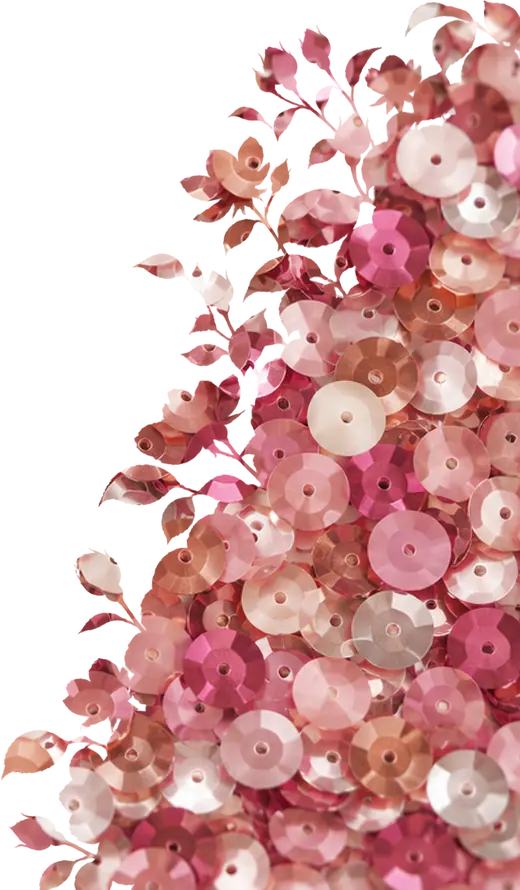
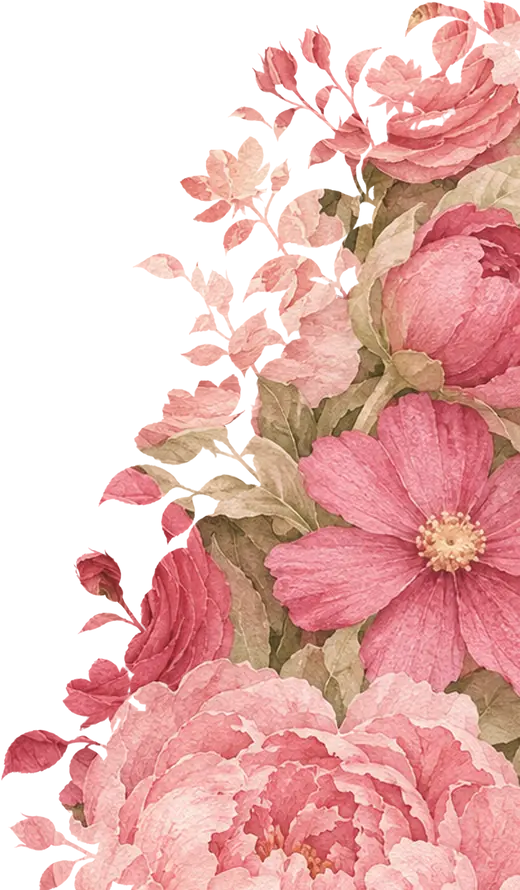
Quitar el telón de lentejuelas: a tamaño real se ve mal
En mi prueba a 375 px parecía bien. En la ventana de Diego, a 1470, las
lentejuelas se escalan y se vuelven discos grandes y duros, en foco, que
aplastan la fotografía. No es el recorte: es la lámina, que está tomada
demasiado de cerca.

Vuelven las flores hasta que haya un fondo que aguante el tamaño. La
referencia que quiere Soffia no usa ningún muro de lentejuelas: usa fondo casi
blanco, bolas de espejo plateadas recortadas por el canto y estrellas planas
de purpurina repartidas.

diff --git a/index.html b/index.html
@@ -11,10 +11,10 @@
 <link rel="preconnect" href="https://fonts.googleapis.com">
 <link rel="preconnect" href="https://fonts.gstatic.com" crossorigin>
 <link rel="stylesheet" href="https://fonts.googleapis.com/css2?family=Cormorant+Garamond:ital,wght@0,300;0,400;0,500;0,600;1,300;1,400&family=Jost:wght@300;400;500&family=Great+Vibes&display=swap">
-<!-- El estilo se decide antes de pintar nada: si se pusiera desde script.js?v=1795371515-8528ccc
+<!-- El estilo se decide antes de pintar nada: si se pusiera desde script.js?v=1795372016-e877f73
      se vería un parpadeo del estilo viejo al nuevo. Manda ?estilo= de la URL;
-     si no, lo que diga datos.js?v=1795371515-8528ccc (y por defecto, «papel»). -->
-<script src="datos.js?v=1795371515-8528ccc"></script>
+     si no, lo que diga datos.js?v=1795372016-e877f73 (y por defecto, «papel»). -->
+<script src="datos.js?v=1795372016-e877f73"></script>
 <script>
   (function () {
     var p = new URLSearchParams(location.search).get('estilo');
@@ -24,8 +24,8 @@
     if (e) try { sessionStorage.setItem('estilo', e); } catch (x) {}
   })();
 </script>
-<link rel="preload" as="image" href="assets/apertura-poster.webp?v=1795371515-8528ccc">
-<link rel="stylesheet" href="styles.css?v=1795371515-8528ccc">
+<link rel="preload" as="image" href="assets/apertura-poster.webp?v=1795372016-e877f73">
+<link rel="stylesheet" href="styles.css?v=1795372016-e877f73">
 </head>
 <body class="sin-abrir">
 
@@ -39,21 +39,21 @@
             aria-label="Abrir la invitación de Soffia">
      <span class="lienzo">
       <!-- 1 · el sobre cerrado, quieto, hasta que tocan -->
-      <img class="capa" id="capa-poster" src="assets/apertura-poster.webp?v=1795371515-8528ccc" alt=""
+      <img class="capa" id="capa-poster" src="assets/apertura-poster.webp?v=1795372016-e877f73" alt=""
            width="1080" height="1920" fetchpriority="high">
 
       <!-- 2 · los dos vídeos, uno detrás de otro. Son dos elementos y no uno
            con la fuente cambiada: así el segundo ya está descargado y pintado
            cuando acaba el primero, y el corte no parpadea. -->
       <video class="capa" id="video-1" muted playsinline preload="auto"
-             aria-hidden="true" src="assets/apertura-1.mp4?v=1795371515-8528ccc"></video>
+             aria-hidden="true" src="assets/apertura-1.mp4?v=1795372016-e877f73"></video>
       <video class="capa" id="video-2" muted playsinline preload="none"
              aria-hidden="true"></video>
 
       <!-- 3 · la hoja: es el último fotograma del segundo vídeo, así que el
            relevo no se ve. Hace falta porque el navegador tira la imagen de un
            vídeo pausado al salir de pantalla y al volver dibuja la primera. -->
-      <img class="capa" id="capa-final" src="assets/apertura-final.webp?v=1795371515-8528ccc" alt=""
+      <img class="capa" id="capa-final" src="assets/apertura-final.webp?v=1795372016-e877f73" alt=""
            width="1080" height="1920" fetchpriority="low">
 
       <!-- 3b · y la hoja se asienta: el fotograma del vídeo recorta un 18 %
@@ -61,7 +61,7 @@
            entera y entra creciendo hacia su tamaño real, así que el reencuadre
            se lee como el papel posándose y no como un salto. -->
       <span class="capa hoja-posada" id="hoja-posada" aria-hidden="true">
-        <img src="assets/hoja.webp?v=1795371515-8528ccc" alt="" width="720" height="1168"
+        <img src="assets/hoja.webp?v=1795372016-e877f73" alt="" width="720" height="1168"
              fetchpriority="low">
       </span>
 
@@ -102,7 +102,7 @@
 <!-- ══════════════ 2 · LA ILUSIÓN ══════════════ -->
 <section class="seccion s-nota" id="nota">
   <div class="costura costura-arriba invertida" aria-hidden="true"></div>
-  <img class="adorno ad-globo" src="assets/ad-globo.webp?v=1795371515-8528ccc" alt="" aria-hidden="true" loading="lazy" data-parallax="0.08">
+  <img class="adorno ad-globo" src="assets/ad-globo.webp?v=1795372016-e877f73" alt="" aria-hidden="true" loading="lazy" data-parallax="0.08">
 
   <div class="envoltorio">
     <p class="parrafo-grande revela" id="msj-presentacion" style="--i:0"></p>
@@ -112,8 +112,8 @@
 <!-- ══════════════ 3 · SOFFIA ══════════════ -->
 <section class="seccion s-soffia" id="soffia">
   <div class="costura costura-arriba" aria-hidden="true"></div>
-  <img class="adorno ad-brillo ad-brillo-esferas" src="assets/ad-brillo.webp?v=1795371515-8528ccc" alt="" aria-hidden="true" loading="lazy" data-parallax="0.13">
-  <img class="adorno ad-esferas" src="assets/ad-esferas.webp?v=1795371515-8528ccc" alt="" aria-hidden="true" loading="lazy" data-parallax="0.10">
+  <img class="adorno ad-brillo ad-brillo-esferas" src="assets/ad-brillo.webp?v=1795372016-e877f73" alt="" aria-hidden="true" loading="lazy" data-parallax="0.13">
+  <img class="adorno ad-esferas" src="assets/ad-esferas.webp?v=1795372016-e877f73" alt="" aria-hidden="true" loading="lazy" data-parallax="0.10">
 
   <!-- el puente: lo último que se lee antes de que se abran las rosas -->
   <div class="envoltorio">
@@ -130,13 +130,13 @@
     <div class="retrato-marco">
       <img id="foto-portada" alt="Fotografía de Soffia" hidden>
       <div class="retrato-vacio" id="retrato-vacio">
-        <img src="assets/flor-hojas.webp?v=1795371515-8528ccc" alt="" loading="lazy">
+        <img src="assets/flor-hojas.webp?v=1795372016-e877f73" alt="" loading="lazy">
         <p>Aquí irá la fotografía de Soffia</p>
       </div>
       <!-- tres paneles de rosas: arriba sube, izquierda y derecha se abren -->
-      <img class="velo velo-arriba" src="assets/panel-arriba.webp?v=1795371515-8528ccc" alt="" loading="lazy">
-      <img class="velo velo-izq" src="assets/panel-izq.webp?v=1795371515-8528ccc" alt="" loading="lazy">
-      <img class="velo velo-der" src="assets/panel-der.webp?v=1795371515-8528ccc" alt="" loading="lazy">
+      <img class="velo velo-arriba" src="assets/panel-arriba.webp?v=1795372016-e877f73" alt="" loading="lazy">
+      <img class="velo velo-izq" src="assets/panel-izq.webp?v=1795372016-e877f73" alt="" loading="lazy">
+      <img class="velo velo-der" src="assets/panel-der.webp?v=1795372016-e877f73" alt="" loading="lazy">
     </div>
     <span class="costura costura-foto arriba" aria-hidden="true"></span>
     <span class="costura costura-foto abajo" aria-hidden="true"></span>
@@ -159,7 +159,7 @@
 <!-- ══════════════ 3 · CUÁNDO Y DÓNDE ══════════════ -->
 <section class="seccion s-cuando" id="cuando">
   <div class="costura costura-arriba invertida" aria-hidden="true"></div>
-  <img class="adorno ad-guirnalda" src="assets/ad-guirnalda.webp?v=1795371515-8528ccc" alt="" aria-hidden="true" loading="lazy" data-parallax="0.11">
+  <img class="adorno ad-guirnalda" src="assets/ad-guirnalda.webp?v=1795372016-e877f73" alt="" aria-hidden="true" loading="lazy" data-parallax="0.11">
 
   <div class="envoltorio">
     <p class="antetitulo revela" style="--i:0">Cuándo</p>
@@ -180,7 +180,7 @@
 <!-- ══════════════ 4b · DÓNDE ══════════════ -->
 <section class="seccion s-donde" id="donde">
   <div class="costura costura-arriba" aria-hidden="true"></div>
-  <img class="adorno ad-perlas" src="assets/ad-perlas.webp?v=1795371515-8528ccc" alt="" aria-hidden="true" loading="lazy" data-parallax="0.12">
+  <img class="adorno ad-perlas" src="assets/ad-perlas.webp?v=1795372016-e877f73" alt="" aria-hidden="true" loading="lazy" data-parallax="0.12">
 
   <div class="envoltorio">
     <p class="antetitulo revela" style="--i:0">Dónde</p>
@@ -193,7 +193,7 @@
 <!-- ══════════════ 4 · ITINERARIO ══════════════ -->
 <section class="seccion s-itinerario" id="itinerario">
   <div class="costura costura-arriba" aria-hidden="true"></div>
-  <img class="adorno ad-mono-a" src="assets/ad-mono-a.webp?v=1795371515-8528ccc" alt="" aria-hidden="true" loading="lazy" data-parallax="0.10">
+  <img class="adorno ad-mono-a" src="assets/ad-mono-a.webp?v=1795372016-e877f73" alt="" aria-hidden="true" loading="lazy" data-parallax="0.10">
 
   <div class="envoltorio">
     <p class="antetitulo revela" style="--i:0">Así celebraremos</p>
@@ -210,7 +210,7 @@
 <!-- ══════════════ 5 · VESTIMENTA ══════════════ -->
 <section class="seccion s-vestir" id="vestir" hidden>
   <div class="costura costura-arriba invertida" aria-hidden="true"></div>
-  <img class="adorno ad-cintas" src="assets/ad-cintas.webp?v=1795371515-8528ccc" alt="" aria-hidden="true" loading="lazy" data-parallax="0.10">
+  <img class="adorno ad-cintas" src="assets/ad-cintas.webp?v=1795372016-e877f73" alt="" aria-hidden="true" loading="lazy" data-parallax="0.10">
 
   <div class="envoltorio">
     <div class="vestimenta" id="vestimenta" hidden></div>
@@ -220,8 +220,8 @@
 <!-- ══════════════ 6 · CONFIRMACIÓN ══════════════ -->
 <section class="seccion s-confirmar" id="confirmar">
   <div class="costura costura-arriba" aria-hidden="true"></div>
-  <img class="adorno ad-brillo ad-brillo-globos" src="assets/ad-brillo.webp?v=1795371515-8528ccc" alt="" aria-hidden="true" loading="lazy" data-parallax="0.13">
-  <img class="adorno ad-globos" src="assets/ad-globos.webp?v=1795371515-8528ccc" alt="" aria-hidden="true" loading="lazy" data-parallax="0.09">
+  <img class="adorno ad-brillo ad-brillo-globos" src="assets/ad-brillo.webp?v=1795372016-e877f73" alt="" aria-hidden="true" loading="lazy" data-parallax="0.13">
+  <img class="adorno ad-globos" src="assets/ad-globos.webp?v=1795372016-e877f73" alt="" aria-hidden="true" loading="lazy" data-parallax="0.09">
 
   <div class="envoltorio">
     <p class="antetitulo revela" style="--i:0">Nos vemos en mis XV</p>
@@ -233,13 +233,13 @@
 <!-- ══════════════ 7 · DESPEDIDA ══════════════ -->
 <section class="seccion s-cierre" id="cierre">
   <div class="costura costura-arriba invertida" aria-hidden="true"></div>
-  <img class="adorno ad-mono-b" src="assets/ad-mono-b.webp?v=1795371515-8528ccc" alt="" aria-hidden="true" loading="lazy" data-parallax="0.10">
+  <img class="adorno ad-mono-b" src="assets/ad-mono-b.webp?v=1795372016-e877f73" alt="" aria-hidden="true" loading="lazy" data-parallax="0.10">
   <!-- el cierre se monta en tres piezas: la rosa donde aterriza la que cae,
        y el follaje de cada lado, que sale de detrás cuando ya está posada -->
   <span class="flor flor-cierre-b" aria-hidden="true" data-parallax="0.09">
-    <img class="cierre-hoja cierre-izq" src="assets/flor-bajo-izq.webp?v=1795371515-8528ccc" alt="" loading="lazy">
-    <img class="cierre-hoja cierre-der" src="assets/flor-bajo-der.webp?v=1795371515-8528ccc" alt="" loading="lazy">
-    <img class="cierre-rosa" src="assets/flor-bajo-rosa.webp?v=1795371515-8528ccc" alt="" loading="lazy">
+    <img class="cierre-hoja cierre-izq" src="assets/flor-bajo-izq.webp?v=1795372016-e877f73" alt="" loading="lazy">
+    <img class="cierre-hoja cierre-der" src="assets/flor-bajo-der.webp?v=1795372016-e877f73" alt="" loading="lazy">
+    <img class="cierre-rosa" src="assets/flor-bajo-rosa.webp?v=1795372016-e877f73" alt="" loading="lazy">
   </span>
 
   <div class="envoltorio">
@@ -257,9 +257,9 @@
 
 <!-- la rosa que se desprende de la tarjeta y baja con el scroll -->
 <span class="petalo" id="petalo" aria-hidden="true">
-  <img class="petalo-cara" id="rosa-frente" src="assets/rosa-frente.webp?v=1795371515-8528ccc" alt="">
-  <img class="petalo-cara" id="rosa-tres"   src="assets/rosa-tres.webp?v=1795371515-8528ccc"   alt="">
-  <img class="petalo-cara" id="rosa-perfil" src="assets/rosa-perfil.webp?v=1795371515-8528ccc" alt="">
+  <img class="petalo-cara" id="rosa-frente" src="assets/rosa-frente.webp?v=1795372016-e877f73" alt="">
+  <img class="petalo-cara" id="rosa-tres"   src="assets/rosa-tres.webp?v=1795372016-e877f73"   alt="">
+  <img class="petalo-cara" id="rosa-perfil" src="assets/rosa-perfil.webp?v=1795372016-e877f73" alt="">
 </span>
 
 <button type="button" class="audio" id="audio" hidden aria-pressed="false"
@@ -271,6 +271,6 @@
   Vista previa
 </div>
 
-<script src="script.js?v=1795371515-8528ccc"></script>
+<script src="script.js?v=1795372016-e877f73"></script>
 </body>
 </html>

diff --git a/styles.css b/styles.css
@@ -71,7 +71,7 @@ body{
 body::before{
   content:''; position:fixed; inset:0; z-index:9;
   pointer-events:none;
-  background:url('assets/papel-marfil.webp?v=1795371515-8528ccc') repeat;
+  background:url('assets/papel-marfil.webp?v=1795372016-e877f73') repeat;
   background-size:360px 360px;
   opacity:.5; mix-blend-mode:multiply;
 }
@@ -218,8 +218,8 @@ body.hoja-posada-lista .hoja-posada img{ opacity:1; transform:none; }
 /* la máscara deja ver la tarjeta solo por encima de la V de la solapa */
 .marco-tarjeta{
   position:absolute; inset:0; display:block;
-  -webkit-mask-image:url('assets/mascara-tarjeta.png?v=1795371515-8528ccc');
-          mask-image:url('assets/mascara-tarjeta.png?v=1795371515-8528ccc');
+  -webkit-mask-image:url('assets/mascara-tarjeta.png?v=1795372016-e877f73');
+          mask-image:url('assets/mascara-tarjeta.png?v=1795372016-e877f73');
   -webkit-mask-size:100% 66.5072%;
           mask-size:100% 66.5072%;
   -webkit-mask-position:top left;  mask-position:top left;
@@ -425,7 +425,7 @@ main{ display:block; }
 /* costuras de papel rasgado entre secciones */
 .costura{
   position:absolute; top:-2px; left:0; width:100%; height:clamp(26px,6.4vw,40px);
-  background:url('assets/tira-papel.webp?v=1795371515-8528ccc') center bottom / 100% 100% no-repeat;
+  background:url('assets/tira-papel.webp?v=1795372016-e877f73') center bottom / 100% 100% no-repeat;
   z-index:1; pointer-events:none;
   filter: drop-shadow(0 3px 5px rgba(130,97,80,.1));
 }

diff --git a/script.js b/script.js
@@ -48,7 +48,7 @@ let   abierto   = false;
    aparecen las letras encima. Los dos vídeos van en dos elementos distintos:
    el segundo se precarga mientras corre el primero, así el corte entre ellos
    no parpadea (el último fotograma de uno es el primero del otro). */
-const VIDEOS = ['assets/apertura-1.mp4?v=1795371515-8528ccc', 'assets/apertura-2.mp4?v=1795371515-8528ccc'];
+const VIDEOS = ['assets/apertura-1.mp4?v=1795372016-e877f73', 'assets/apertura-2.mp4?v=1795372016-e877f73'];
 
 /* El texto va centrado sobre LA HOJA, no sobre la pantalla. La hoja cambia
    de tamaño y de sitio según la proporción del móvil, así que un porcentaje
@@ -203,7 +203,7 @@ if (MODO === 'video' && !yaAbierto && !QUIETO) {
   setTimeout(pedirSegundo, 2500);          // red lenta: no esperamos para siempre
 }
 
-/* ══════════════ 2 · CONTENIDO DESDE datos.js?v=1795371515-8528ccc ══════════════ */
+/* ══════════════ 2 · CONTENIDO DESDE datos.js?v=1795372016-e877f73 ══════════════ */
 
 if (PREVIA && $('#aviso-previa')) $('#aviso-previa').hidden = false;
 
